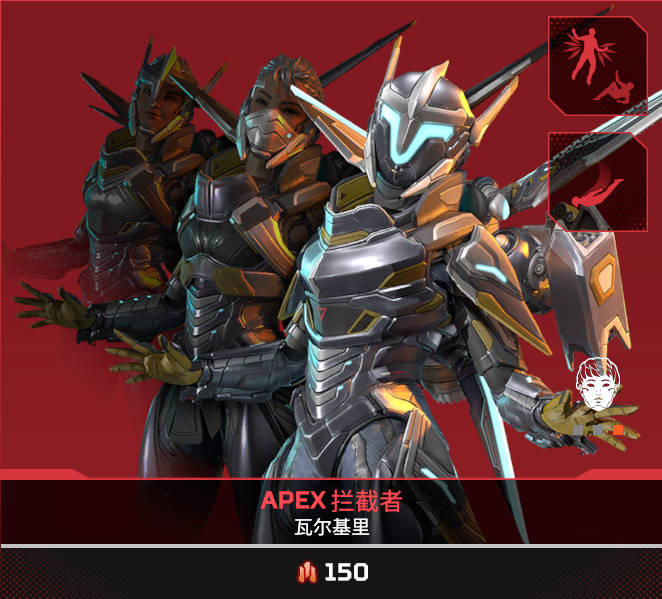
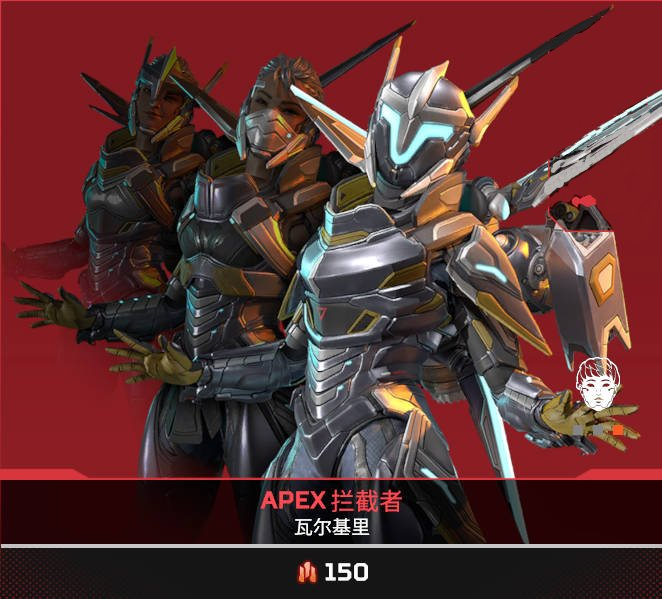
feat: UI细节调整 + 威望级皮肤数据补全(10项) - 隐藏制造轮换导航, 金币数字改金色, 神话级加Flame图标 - 卡片悬停边框加粗(border-2), 修复上边框裁切 - 威望级皮肤JSON从4项扩充至10项 - Pillow处理prestige/2.jpg去除右上角图标框 - 更新dev-log.md

diff --git a/client/src/App.jsx b/client/src/App.jsx
@@ -1,5 +1,5 @@
 import { NavLink, Route, Routes, Navigate } from 'react-router-dom';
-import { Trophy, Coins, Hammer, Gamepad2, ShoppingBag } from 'lucide-react';
+import { Trophy, Coins, Hammer, Gamepad2, ShoppingBag, Flame } from 'lucide-react';
 import BattlePass from './pages/BattlePass.jsx';
 import Maps from './pages/Maps.jsx';
 import CoinsPage from './pages/Coins.jsx';
@@ -11,7 +11,7 @@ const navItems = [
   { to: '/battlepass', label: '通行证', icon: Trophy },
   { to: '/shop', label: '商店', icon: ShoppingBag },
   { to: '/coins', label: '金币比例', icon: Coins },
-  { to: '/crafting', label: '制造轮换', icon: Hammer }
+  // { to: '/crafting', label: '制造轮换', icon: Hammer }
 ];
 
 export default function App() {
@@ -32,10 +32,10 @@ export default function App() {
             <NavLink
               to="/mythic"
               className={({ isActive }) =>
-                `px-3 py-1.5 text-sm font-bold transition-all duration-200 ${isActive ? 'text-red-400 bg-red-500/15 border border-red-500/35 shadow-sm shadow-red-500/20' : 'text-red-400/80 hover:text-red-300 hover:bg-red-500/8 border border-transparent'}`
+                `flex items-center gap-1.5 px-3 py-1.5 text-sm font-bold transition-all duration-200 ${isActive ? 'text-red-400 bg-red-500/15 border border-red-500/35 shadow-sm shadow-red-500/20' : 'text-red-400/80 hover:text-red-300 hover:bg-red-500/8 border border-transparent'}`
               }
             >
-              神话级
+              <Flame size={14} /> 神话级
             </NavLink>
             {navItems.map(({ to, label, icon: Icon }) => (
               <NavLink

diff --git a/client/src/pages/Mythic.jsx b/client/src/pages/Mythic.jsx
@@ -23,7 +23,7 @@ function MythicSection({ children }) {
 }
 
 const CARD_SHELL =
-  'group relative flex-1 min-w-0 card !rounded-none overflow-hidden border-red-900/40 hover:border-red-400/75 hover:scale-[1.02] hover:-translate-y-1 hover:shadow-xl hover:shadow-red-500/15 transition-all duration-300 cursor-pointer';
+  'group relative flex-1 min-w-0 card !rounded-none overflow-hidden border-red-900/40 hover:border-2 hover:border-red-400 hover:scale-[1.02] hover:-translate-y-1 hover:shadow-xl hover:shadow-red-500/20 transition-all duration-300 cursor-pointer';
 
 function CardShine() {
   return <div className="pointer-events-none absolute inset-0 z-10 -translate-x-full bg-gradient-to-r from-transparent via-white/10 to-transparent opacity-0 transition-all duration-700 group-hover:translate-x-full group-hover:opacity-100" />;
@@ -61,7 +61,7 @@ function PagedRow({ children, itemsPerPage = 5 }) {
       <div className="flex-1 min-w-0 overflow-hidden">
         <div
           key={animKey}
-          className="grid gap-4 p-1.5 animate-page-slide"
+          className="grid gap-4 p-3 animate-page-slide"
           style={{
             gridTemplateColumns: `repeat(${itemsPerPage}, 1fr)`,
             '--slide-from': direction >= 0 ? '60px' : '-60px',

diff --git a/client/src/pages/Coins.jsx b/client/src/pages/Coins.jsx
@@ -30,7 +30,7 @@ export default function CoinsPage() {
               <div className="flex items-center gap-2 text-zinc-400 text-sm">
                 <Coins size={16} /> 金币包
               </div>
-              <div className="font-display text-5xl text-white mt-2 leading-none">{p.coins.toLocaleString()}</div>
+              <div className="font-display text-5xl text-amber-400 mt-2 leading-none">{p.coins.toLocaleString()}</div>
               {p.bonus > 0 && (
                 <div className="text-sm text-apex-orange mt-1 flex items-center gap-1">
                   <Sparkles size={14} /> 额外赠送 {p.bonus}(共 {p.totalCoins.toLocaleString()})

diff --git a/doc/dev-log.md b/doc/dev-log.md
@@ -324,6 +324,35 @@
 
 > 保留 `rounded-full` 的元素：页码圆点指示器、装饰竖条、背景光晕 blur 圆
 
+### 其他 UI 调整
+
+- 隐藏"制造轮换"导航项（功能暂未实装）
+- 金币比例页数字字体改为金色 (`text-amber-400`)
+- 神话级导航按钮添加 `Flame` 图标
+- 神话级卡片悬停边框加粗为 `border-2`，颜色提亮为 `border-red-400`
+- 修复卡片网格 padding 不足导致悬停上边框被裁切（`p-1.5` → `p-3`）
+
+### 威望级皮肤数据补全
+
+JSON 从 4 项扩充至 10 项，根据实际图片素材补全：
+
+| # | 名称 | 角色 |
+|---|------|------|
+| 1 | APEX 星辰 | 地平线 |
+| 2 | APEX 偶像 | 沃特森 |
+| 3 | APEX 机甲 | 探路者 |
+| 4 | APEX 激流 | 动力小子 |
+| 5 | APEX 兽化人 | 罗芭 |
+| 6 | APEX 噩梦 | 亡灵 |
+| 7 | APEX 拦截者 | 瓦尔基里 |
+| 8 | APEX 蔓延 | 侵蚀 |
+| 9 | APEX 虚空转移 | 恶灵 |
+| 10 | APEX 猎手 | 寻血猎犬 |
+
+### 图片处理
+
+- 使用 Pillow 脚本去除 `prestige/2.jpg` 右上角两个技能图标框（背景采样覆盖）
+
 ---
 
 ## 待办
